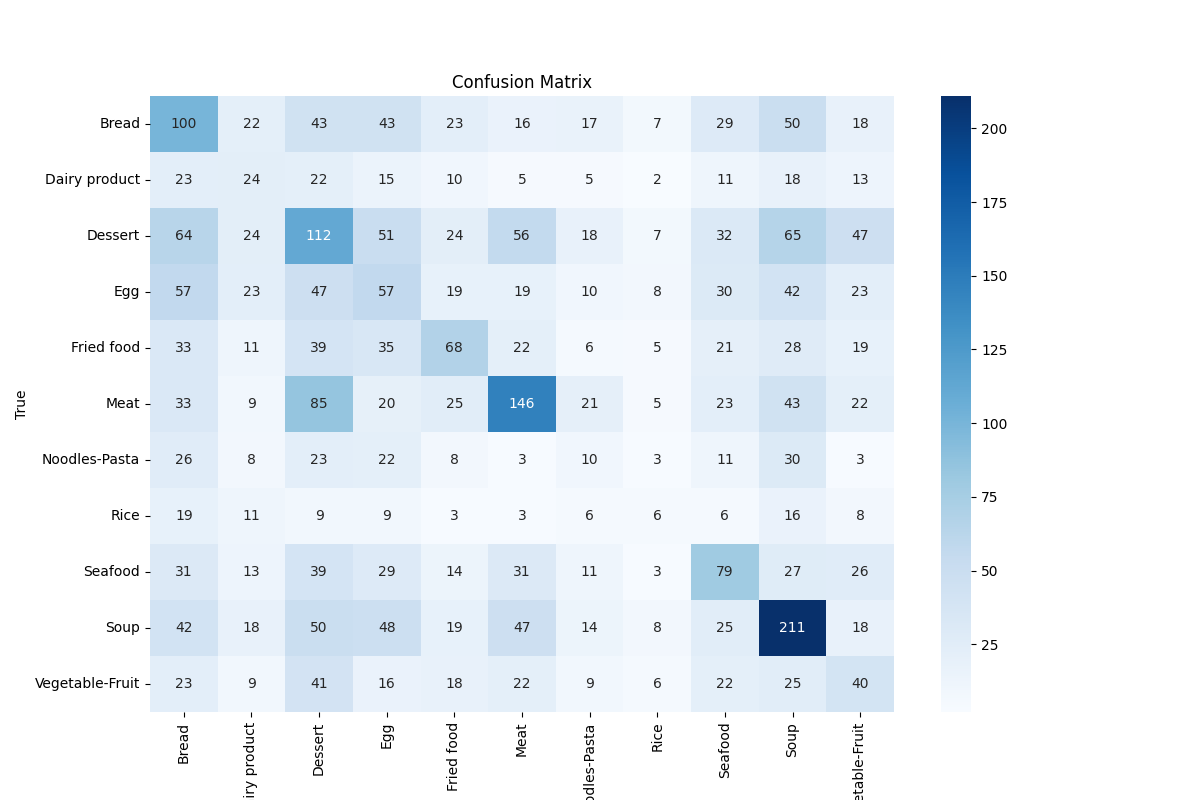
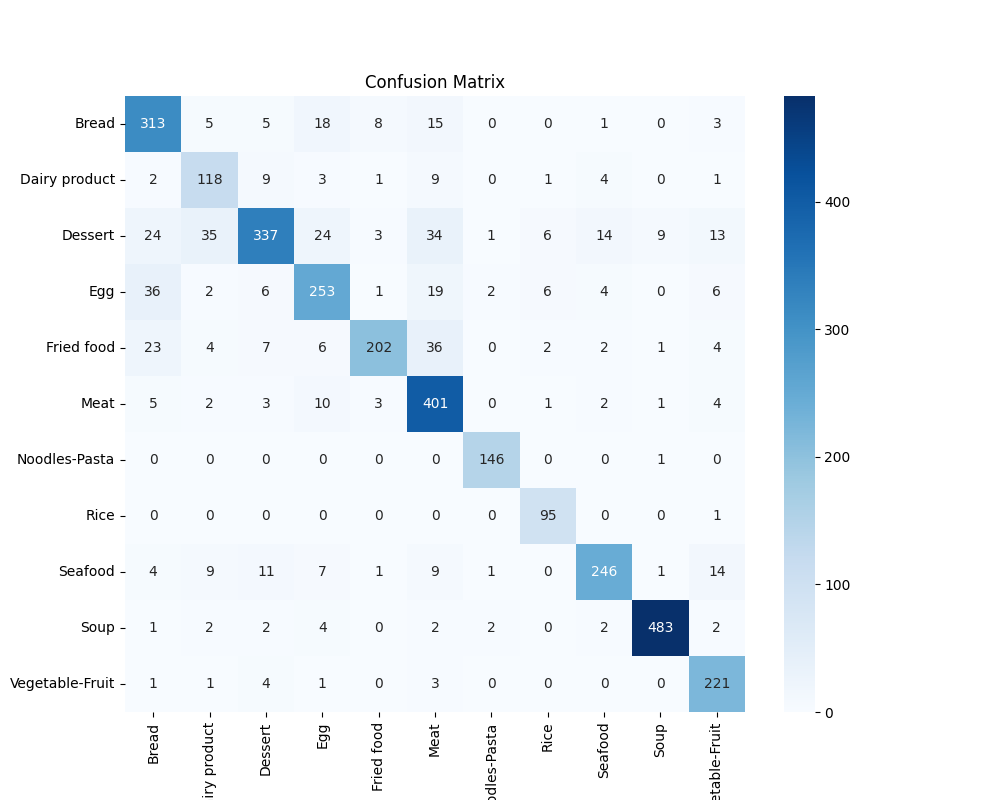
Add confusion matrix

diff --git a/confusion_matrix.py b/confusion_matrix.py
@@ -1,0 +1,73 @@
+import os
+import numpy as np
+import PIL
+from PIL import Image
+from tensorflow.keras.models import load_model
+from sklearn.metrics import confusion_matrix, classification_report
+import matplotlib.pyplot as plt
+import seaborn as sns
+import pandas as pd
+from sklearn.preprocessing import LabelEncoder
+
+# Load the model
+model = load_model('D:\Dunia Perkuliahan\Semester 5\Bangkit\Model\model_tf.h5')
+
+# Assigning label names to the corresponding indexes
+labels = {
+    0: 'Bread',
+    1: 'Dairy product',
+    2: 'Dessert',
+    3: 'Egg',
+    4: 'Fried food',
+    5: 'Meat',
+    6: 'Noodles-Pasta',
+    7: 'Rice',
+    8: 'Seafood',
+    9: 'Soup',
+    10: 'Vegetable-Fruit'
+}
+
+# Specify the path to the evaluation data
+path_eval = "D:\Dunia Perkuliahan\Semester 5\Bangkit\Food_Image_Recognition\Dataset\evaluation"
+
+# Initialize lists to store true labels and predicted labels
+true_labels = []
+predicted_labels = []
+
+# Loop through the images in the evaluation directory
+for label_folder in os.listdir(path_eval):
+    label_path = os.path.join(path_eval, label_folder)
+
+    for img_name in os.listdir(label_path):
+        img_path = os.path.join(label_path, img_name)
+
+        # Open and preprocess the image
+        img = PIL.Image.open(img_path)
+        img = img.resize((256, 256))
+        img_array = np.asarray(img, dtype=np.float32) / 255
+        img_array = img_array.reshape(-1, 256, 256, 3)
+
+        # Make a prediction
+        prediction = model.predict(img_array)
+        predicted_label = np.argmax(prediction)
+
+        # Append true and predicted labels to the lists
+        true_labels.append(label_folder)
+        predicted_labels.append(predicted_label)
+
+# Convert string labels to integer labels using LabelEncoder
+label_encoder = LabelEncoder()
+true_labels_encoded = label_encoder.fit_transform(true_labels)
+
+# Generate and display the confusion matrix
+cm = confusion_matrix(true_labels_encoded, predicted_labels)
+plt.figure(figsize=(10, 8))
+sns.heatmap(cm, annot=True, fmt='d', cmap='Blues', xticklabels=labels.values(), yticklabels=labels.values())
+plt.title('Confusion Matrix')
+plt.xlabel('Predicted')
+plt.ylabel('True')
+plt.show()
+
+# Display the classification report
+print('Classification Report:\n',
+      classification_report(true_labels_encoded, predicted_labels, target_names=labels.values()))
